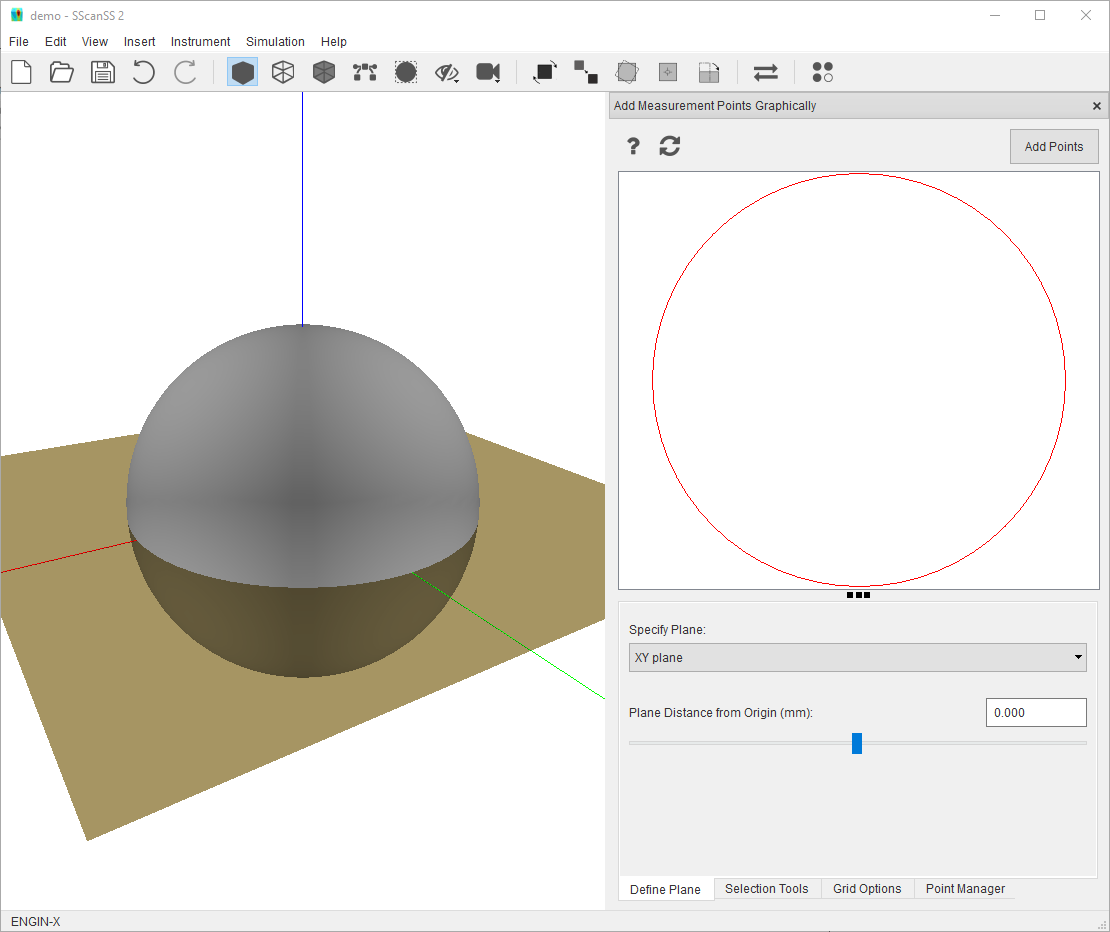
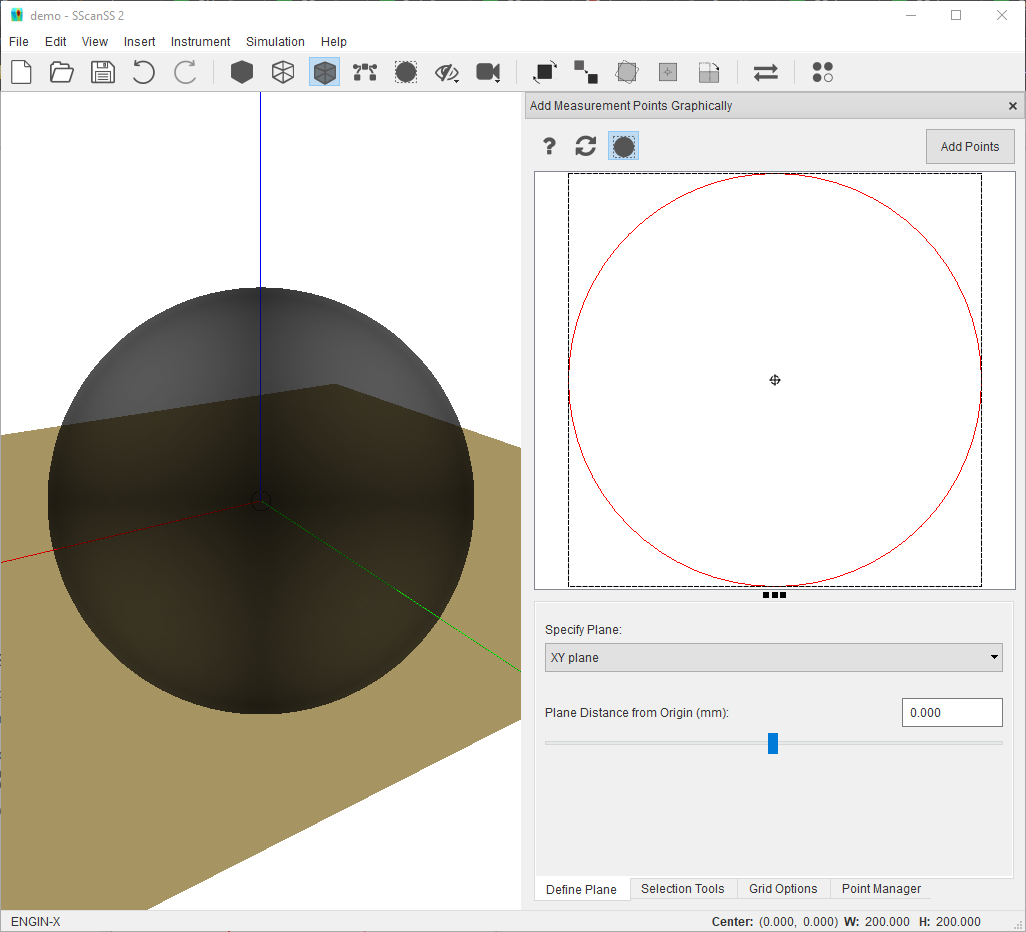
Shows bounding box in the grahics scene and dimension in status bar

diff --git a/sscanss/app/dialogs/insert.py b/sscanss/app/dialogs/insert.py
@@ -393,10 +393,19 @@ class PickPointDialog(QtWidgets.QWidget):
                                                style_name='ToolButton',
                                                status_tip='Reset camera transformation of the cross-section view',
                                                icon_path=path_for('refresh.png'))
+
+        self.bounds_button = create_tool_button(checkable=True,
+                                                checked=False,
+                                                tooltip='Show Bounds',
+                                                style_name='ToolButton',
+                                                status_tip='Show bounding box of the cross-section',
+                                                icon_path=path_for('boundingbox.png'))
+        self.bounds_button.clicked.connect(self.showBounds)
         self.execute_button = QtWidgets.QPushButton('Add Points')
         self.execute_button.clicked.connect(self.addPoints)
         button_layout.addWidget(self.help_button)
         button_layout.addWidget(self.reset_button)
+        button_layout.addWidget(self.bounds_button)
         button_layout.addStretch(1)
         button_layout.addWidget(self.execute_button)
         self.main_layout.addLayout(button_layout)
@@ -440,7 +449,7 @@ class PickPointDialog(QtWidgets.QWidget):
             self.parent.scenes.removePlane()
         self.view.reset()
 
-    def updateStatusBar(self, point):
+    def updateCursorStatus(self, point):
         """Updates the status bar with the position of the mouse cursor in 3D world coordinates
 
         :param point: mouse cursor position in widget coordinates
@@ -450,16 +459,37 @@ class PickPointDialog(QtWidgets.QWidget):
             transform = self.scene.transform.inverted()[0]
             scene_pt = transform.map(self.view.mapToScene(point)) / self.sample_scale
             world_pt = [scene_pt.x(), scene_pt.y(), -self.old_distance] @ self.matrix.transpose()
-            cursor_text = f'X:   {world_pt[0]:.3f}        Y:   {world_pt[1]:.3f}        Z:   {world_pt[2]:.3f}'
+            cursor_text = (f'<p style="white-space: pre;"><b>Cursor Position:</b>  ({world_pt[0]:.3f},  '
+                           f'{world_pt[1]:.3f},  {world_pt[2]:.3f})  </p>')
             self.parent.cursor_label.setText(cursor_text)
         else:
             self.parent.cursor_label.clear()
+
+    def updateDimensionStatus(self, rect):
+        """Updates the status bar with the dimension of bounding box of the sample cross-section. The dimension
+         include centre, width, and height of the bounding box.
+
+        :param rect: bounding box rectangle
+        :type rect: QtCore.QRect
+        """
+        if rect.isValid():
+            scale = QtGui.QTransform().scale(1 / self.sample_scale, 1 / self.sample_scale)
+            transform = self.scene.transform.inverted()[0]
+            rect = scale.mapRect(transform.mapRect(rect))
+            x, y, w, h = rect.center().x(), rect.center().y(), rect.width(), rect.height()
+            size_text = (f'<p style="white-space: pre;"><span><b>Center:</b>  ({x:.3f},  {y:.3f})    </span>'
+                         f'<span><b>W:</b>  {w:.3f}    </span> <span><b>H:</b>  {h:.3f}    </span></p>')
+            self.parent.size_label.setText(size_text)
+            self.parent.size_label.setToolTip('Dimension of bounding box (center, width and height)')
+        else:
+            self.parent.size_label.clear()
+            self.parent.size_label.setToolTip('')
 
     def createGraphicsView(self):
         """Creates the graphics view and scene"""
         self.scene = GraphicsScene(self.sample_scale, self)
         self.view = GraphicsView(self.scene)
-        self.view.interaction.mouse_moved.connect(self.updateStatusBar)
+        self.view.interaction.mouse_moved.connect(self.updateCursorStatus)
         self.view.setMinimumHeight(350)
         self.splitter.addWidget(self.view)
 
@@ -749,7 +779,6 @@ class PickPointDialog(QtWidgets.QWidget):
         :param button_id: index of active selection tool
         :type button_id: int
         """
-
         size = ()
         mode = GraphicsView.DrawMode(button_id)
         if mode == GraphicsView.DrawMode.Line:
@@ -760,6 +789,25 @@ class PickPointDialog(QtWidgets.QWidget):
         self.line_tool_widget.setVisible(mode == GraphicsView.DrawMode.Line)
         self.area_tool_widget.setVisible(mode == GraphicsView.DrawMode.Rectangle)
         self.view.draw_tool = self.view.createDrawTool(mode, size)
+
+    def showBounds(self, state):
+        """Shows/Hides the bounds in the scene
+
+        :param state: indicated if the bounds should be shown
+        :type state: bool
+        """
+        rect = QtCore.QRectF()
+        for item in self.scene.items():
+            if isinstance(item, (QtWidgets.QGraphicsPathItem, GraphicsImageItem)):
+                rect = item.boundingRect()
+                break
+
+        if state and rect.isValid():
+            self.scene.bounds_item.rect = rect
+            if self.scene.bounds_item not in self.scene.items():
+                self.scene.addItem(self.scene.bounds_item)
+        else:
+            self.scene.removeItem(self.scene.bounds_item)
 
     def showHelp(self):
         """Toggles the help overlay in the scene"""
@@ -820,8 +868,6 @@ class PickPointDialog(QtWidgets.QWidget):
             anchor = box.bottomRight()
 
         self.view.object_anchor = anchor
-        self.scene.addAnchor(anchor)
-        self.view.update()
 
     def updateSlider(self, value):
         """Updates the cross-section plane position in the slider when position is changed via
@@ -936,7 +982,7 @@ class PickPointDialog(QtWidgets.QWidget):
                 return
             segments = np.array(segments)
 
-            item = QtWidgets.QGraphicsPathItem()
+            cross_section_item = QtWidgets.QGraphicsPathItem()
             cross_section_path = QtGui.QPainterPath()
             rotated_segments = self.sample_scale * (segments @ self.matrix)
             for i in range(0, rotated_segments.shape[0], 2):
@@ -944,9 +990,9 @@ class PickPointDialog(QtWidgets.QWidget):
                 cross_section_path.moveTo(start[0], start[1])
                 end = rotated_segments[i + 1, :]
                 cross_section_path.lineTo(end[0], end[1])
-            item.setPath(cross_section_path)
-            item.setPen(self.path_pen)
-            item.setTransform(self.scene.transform)
+            cross_section_item.setPath(cross_section_path)
+            cross_section_item.setPen(self.path_pen)
+            cross_section_item.setTransform(self.scene.transform)
         else:
             volume_slice = volume_plane_intersection(self.mesh, self.plane)
             if volume_slice is None:
@@ -956,12 +1002,12 @@ class PickPointDialog(QtWidgets.QWidget):
             transform = QtGui.QTransform()
             transform.scale(self.sample_scale, self.sample_scale)
             rect = transform.mapRect(rect)
-            item = GraphicsImageItem(rect, volume_slice.image)
-            item.setTransform(self.scene.transform)
+            cross_section_item = GraphicsImageItem(rect, volume_slice.image)
+            cross_section_item.setTransform(self.scene.transform)
 
-        self.scene.addItem(item)
+        self.scene.addItem(cross_section_item)
 
-        rect = item.boundingRect()
+        rect = cross_section_item.boundingRect()
         anchor = rect.center()
         ab = self.plane.point - self.parent_model.measurement_points.points
         d = np.einsum('ij,ij->i', np.expand_dims(self.plane.normal, axis=0), ab)
@@ -972,13 +1018,13 @@ class PickPointDialog(QtWidgets.QWidget):
         for i, p in zip(index, rotated_points):
             point = QtCore.QPointF(p[0], p[1]) * self.sample_scale
             point = self.scene.transform.map(point)
-            item = GraphicsPointItem(point, size=self.scene.point_size)
-            item.setToolTip(f'Point {i + 1}')
-            item.fixed = True
-            item.makeControllable(self.view.draw_tool is None)
-            item.setPen(self.point_pen)
-            self.scene.addItem(item)
-            rect = rect.united(item.boundingRect().translated(point))
+            point_item = GraphicsPointItem(point, size=self.scene.point_size)
+            point_item.setToolTip(f'Point {i + 1}')
+            point_item.fixed = True
+            point_item.makeControllable(self.view.draw_tool is None)
+            point_item.setPen(self.point_pen)
+            self.scene.addItem(point_item)
+            rect = rect.united(point_item.boundingRect().translated(point))
 
         # calculate new rectangle that encloses original rect with a different anchor
         rect.united(rect.translated(anchor - rect.center()))
@@ -988,6 +1034,9 @@ class PickPointDialog(QtWidgets.QWidget):
 
         if self.view.snap_object_to_grid:
             self.updateObjectAnchor(self.snap_anchor_combobox.currentText())
+
+        self.updateDimensionStatus(cross_section_item.boundingRect())
+        self.showBounds(self.bounds_button.isChecked())
 
     def addPoints(self):
         """Adds the points in the scene into the measurement points of the  project"""

diff --git a/sscanss/app/widgets/graphics.py b/sscanss/app/widgets/graphics.py
@@ -62,6 +62,11 @@ class GraphicsView(QtWidgets.QGraphicsView):
     @snap_object_to_grid.setter
     def snap_object_to_grid(self, value):
         self.object_snap_tool.enabled = value
+        scene = self.scene()
+        if value:
+            scene.addItem(scene.anchor_item)
+        else:
+            scene.removeItem(scene.anchor_item)
 
     @property
     def object_anchor(self):
@@ -74,7 +79,11 @@ class GraphicsView(QtWidgets.QGraphicsView):
 
     @object_anchor.setter
     def object_anchor(self, value):
-        self.object_snap_tool.setAnchor(value, self.scene().transform)
+        scene = self.scene()
+        self.object_snap_tool.setAnchor(value, scene.transform)
+        anchor = scene.transform.map(value)
+        scene.anchor_item.setPos(anchor)
+        self.update()
 
     def createDrawTool(self, mode, count=()):
         """Creates a draw tool for the specified draw mode
@@ -947,9 +956,9 @@ class RectangleTool(DrawTool):
 
     def drawPoints(self):
         rect = self.getOutline()
-        diag = rect.bottomRight() - rect.topLeft()
-        x = rect.x() + self.x_offsets * diag.x()
-        y = rect.y() + self.y_offsets * diag.y()
+        diagonal = rect.bottomRight() - rect.topLeft()
+        x = rect.x() + self.x_offsets * diagonal.x()
+        y = rect.y() + self.y_offsets * diagonal.y()
         for t1, t2 in zip(x, y):
             self.point_drawn.emit(QtCore.QPointF(t1, t2))
 
@@ -974,6 +983,9 @@ class GraphicsScene(QtWidgets.QGraphicsScene):
         self.anchor_item.setZValue(2)
         self.anchor_item.setPen(QtGui.QPen(QtGui.QColor(0, 0, 200), 0))
 
+        self.bounds_item = GraphicsBoundsItem(QtCore.QRectF())
+        self.bounds_item.setZValue(3)
+
         self.outline_item = None
         self.transform = QtGui.QTransform()
 
@@ -995,24 +1007,11 @@ class GraphicsScene(QtWidgets.QGraphicsScene):
             if isinstance(item, GraphicsPointItem):
                 item.makeControllable(flag)
 
-    def addAnchor(self, anchor):
-        """Adds anchor item to the scene at specified coordinates
-
-        :param anchor: anchor point
-        :type anchor: QtCore.QPointF
-        """
-        if self.anchor_item not in self.items():
-            anchor = self.transform.map(anchor)
-            self.anchor_item.setPos(anchor)
-            self.addItem(self.anchor_item)
-        else:
-            anchor = self.transform.map(anchor)
-            self.anchor_item.setPos(anchor)
-
     def clear(self):
         """Clears the scene. Clearing the scene deletes all the items
         so the anchor item should be removed before calling clear"""
         self.removeItem(self.anchor_item)
+        self.removeItem(self.bounds_item)
         self.outline_item = None
         super().clear()
 
@@ -1085,8 +1084,7 @@ class GraphicsPointItem(QtWidgets.QAbstractGraphicsShapeItem):
         return QtCore.QRectF(top, top, new_size, new_size)
 
     def paint(self, painter, _options, _widget):
-        pen = self.pen()
-        painter.setPen(pen)
+        painter.setPen(self.pen())
         painter.setBrush(self.brush())
 
         half = self.size * 0.5
@@ -1100,6 +1098,55 @@ class GraphicsPointItem(QtWidgets.QAbstractGraphicsShapeItem):
             painter.setBrush(QtCore.Qt.NoBrush)
             painter.drawRect(self.boundingRect())
             painter.restore()
+
+
+class GraphicsBoundsItem(QtWidgets.QAbstractGraphicsShapeItem):
+    """Creates a bounding box shape item. The box is drawn with dashed lines and a crosshair
+    in the centre.
+
+    :param rect: bounding box rectangle
+    :type rect: QtCore.QRect
+    """
+    def __init__(self, rect, *args, **kwargs):
+        super().__init__(*args, **kwargs)
+        self._rect = rect
+
+    @property
+    def rect(self):
+        return self._rect
+
+    @rect.setter
+    def rect(self, value):
+        self._rect = value
+        self.update(value)
+
+    def boundingRect(self):
+        """Calculates the bounding box of the graphics item
+
+        :return: bounding rect
+        :rtype: QtCore.QRect
+        """
+        return self._rect
+
+    def paint(self, painter, _options, _widget):
+        painter.setRenderHint(QtGui.QPainter.RenderHint.Antialiasing)
+        radius = math.ceil(0.01 * max(self._rect.width(), self._rect.height()))
+        pen_size = radius / 4
+        pen = QtGui.QPen(QtCore.Qt.black, pen_size, QtCore.Qt.DashLine)
+
+        painter.setPen(pen)
+        painter.setBrush(QtCore.Qt.NoBrush)
+        painter.drawRect(self._rect)
+        painter.drawEllipse(self._rect.center(), radius, radius)
+
+        cx = self._rect.center().x()
+        cy = self._rect.center().y()
+        radius += pen_size
+
+        pen.setStyle(QtCore.Qt.SolidLine)
+        painter.setPen(pen)
+        painter.drawLine(QtCore.QLineF(cx - radius, cy, cx + radius, cy))
+        painter.drawLine(QtCore.QLineF(cx, cy - radius, cx, cy + radius))
 
 
 class GraphicsImageItem(QtWidgets.QAbstractGraphicsShapeItem):
@@ -1141,15 +1188,14 @@ class GraphicsImageItem(QtWidgets.QAbstractGraphicsShapeItem):
         return self.rect
 
     def paint(self, painter, _options, _widget):
-        pen = self.pen()
-        painter.setPen(pen)
+        painter.setPen(self.pen())
         painter.setBrush(self.brush())
 
         painter.drawImage(self.rect, self.image)
 
 
 class GraphicsAnchorItem(QtWidgets.QAbstractGraphicsShapeItem):
-    """Creates a shape item for points in graphics view. The anchor point is draw as a rect with two
+    """Creates a shape item for anchor handles in the graphics view. The anchor point is draw as a rect with two
     lines in the x-axis, and y-axis respectively.
 
     :param point: anchor point
@@ -1171,8 +1217,7 @@ class GraphicsAnchorItem(QtWidgets.QAbstractGraphicsShapeItem):
         return QtCore.QRectF(-self.size / 2, -self.size / 2, self.size, self.size)
 
     def paint(self, painter, _options, _widget):
-        pen = self.pen()
-        painter.setPen(pen)
+        painter.setPen(self.pen())
         painter.setBrush(self.brush())
 
         half = self.size * 0.5

diff --git a/tests/test_ui.py b/tests/test_ui.py
@@ -455,6 +455,9 @@ class TestMainWindow(QTestCase):
         self.assertTrue(widget.view.transform().isIdentity())
         QTest.mouseClick(widget.reset_button, Qt.LeftButton)
         self.assertTrue(widget.view.scene().transform.isIdentity())
+        self.assertNotIn(widget.scene.bounds_item, widget.scene.items())
+        QTest.mouseClick(widget.bounds_button, Qt.LeftButton)
+        self.assertIn(widget.scene.bounds_item, widget.scene.items())
 
     def switchInstrument(self):
         # switch instruments

diff --git a/sscanss/app/window/view.py b/sscanss/app/window/view.py
@@ -611,6 +611,10 @@ class MainWindow(QtWidgets.QMainWindow):
         self.cursor_label.setAlignment(QtCore.Qt.AlignCenter)
         sb.addPermanentWidget(self.cursor_label)
 
+        self.size_label = QtWidgets.QLabel()
+        self.size_label.setAlignment(QtCore.Qt.AlignCenter)
+        sb.addPermanentWidget(self.size_label)
+
     def closeNonModalDialog(self):
         if self.non_modal_dialog is not None:
             self.non_modal_dialog.close()

diff --git a/docs/add_measurements.rst b/docs/add_measurements.rst
@@ -45,6 +45,7 @@ tool bar with a few buttons:
 * The **Add Points** button inserts points that have been placed in the graphics view into the project.
 * The |reset| button resets the graphic view's camera.
 * The |help| button shows useful interaction shortcuts for the graphics view.
+* The |bound| button draws the bounding box of the sample (bounds and centre)  in the graphics view.
 
 .. image:: images/graphics_help.png
    :scale: 80
@@ -65,7 +66,10 @@ Delete                     Delete selected points
 Ctrl + R                   Reset View
 ========================   ======================
 
-The X, Y, Z position of the mouse in the graphics view is shown in real-time in the status bar.
+The following information are displayed in the status bar of the main window:
+
+* The X, Y, Z position of the mouse cursor is shown in real-time as the mouse moves in the view.
+* The dimension of the bounding box of the sample cross-section i.e centre, width and height.
 
 
 Plane definition
@@ -205,4 +209,7 @@ enter a name for the file and press the **Save** button.
             :scale: 10
 
 .. |help| image:: images/question.png
+            :scale: 10
+
+.. |bound| image:: images/boundingbox.png
             :scale: 10
